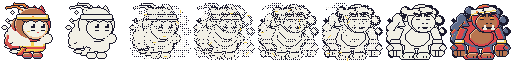
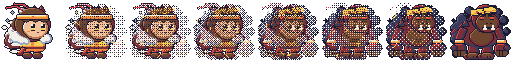
Great Ape morph: full-colour crossfade instead of white silhouettes
Claude-Session: https://claude.ai/code/session_01J8LgTLVYzThXjNSRVhWqep

diff --git a/tools/sprites/generate.py b/tools/sprites/generate.py
@@ -924,17 +924,15 @@ def poof_frame(size: int, k: int, color) -> Image.Image:
 
 
 def morph_frames(a: Image.Image, b: Image.Image) -> list[Image.Image]:
-    """Transformation from frame `a` into `b`: a brightens to a white silhouette, the silhouette
-    dissolves into b's (ordered dither) with gold sparks crackling inside, then b fades in from white.
-    Drawn growing from a's in-game scale to b's (SpecialFx)."""
-    wa, wb = recolor(a, lambda _c: WHITE), recolor(b, lambda _c: WHITE)
+    """Transformation from frame `a` into `b`, in full colour (no white flash): a dissolves into b (ordered
+    dither over 6 frames) with gold sparks crackling. Drawn growing from a's in-game scale to b's (SpecialFx)."""
     rng = random.Random(7)
-    out = [recolor(a, LIGHTER.__getitem__), wa]
-    for p in (0.2, 0.4, 0.6, 0.8):
-        c = Canvas()  # each pixel from one silhouette or the other: both outlines stay readable
+    out = [a]
+    for p in (1 / 7, 2 / 7, 3 / 7, 4 / 7, 5 / 7, 6 / 7):
+        c = Canvas()  # each pixel from one sprite or the other: both stay readable
         for y in range(SIZE):
             for x in range(SIZE):
-                c.px[x, y] = (wb if BAYER[y % 4][x % 4] / 16 < p else wa).getpixel((x, y))
+                c.px[x, y] = (b if BAYER[y % 4][x % 4] / 16 < p else a).getpixel((x, y))
         inside = [(x, y) for y in range(SIZE) for x in range(SIZE) if c.px[x, y][3]]
         for x, y in rng.sample(inside, 6):  # sparks: short gold crackles
             dx, dy = rng.choice(((1, 0), (0, 1), (1, 1), (1, -1)))
@@ -942,7 +940,7 @@ def morph_frames(a: Image.Image, b: Image.Image) -> list[Image.Image]:
                 if 1 < x + dx * j < SIZE - 2 and 1 < y + dy * j < SIZE - 2:
                     c.dot(x + dx * j, y + dy * j, YELLOW)
         out.append(c.img)
-    return out + [wb, recolor(b, LIGHTER.__getitem__)]
+    return out + [b]
 
 
 BAYER = ((0, 8, 2, 10), (12, 4, 14, 6), (3, 11, 1, 9), (15, 7, 13, 5))

diff --git a/.claude/skills/transform-morph/SKILL.md b/.claude/skills/transform-morph/SKILL.md
@@ -19,12 +19,12 @@ backwards when it ends. Purely cosmetic: stats switch instantly.
    "<id>_<form>_morph": lambda: strip(morph_frames(frames(<id>, AURAS.get("<id>"))[0],
                                                    frames(<id>_<form>, AURAS.get("<id>_<form>"))[0])),
    ```
-   `morph_frames(a, b)` gives 8 frames: a brightened → a white silhouette → 4 ordered-dither crossfades
-   of the two white line-art silhouettes with gold spark crackles → b white → b brightened. Tweak the
+   `morph_frames(a, b)` gives 8 frames: a → 6 full-colour ordered-dither crossfades with gold spark
+   crackles → b. No white silhouettes (the user didn't like them). Tweak the
    spark colour / count there if the form has a different theme (keep it generic; pass a parameter
    rather than forking the function).
 3. Run the generator; Read a x4 NEAREST preview. Each middle frame should still show both outlines
-   (if it turns into a shapeless blob, the masks are being unioned instead of picked per pixel).
+   (if it turns into a shapeless blob, the sprites are being unioned instead of picked per pixel).
 4. In `data/skills/<skill>.tres` add an `ext_resource` for `res://assets/fx/<id>_<form>_morph.png` and
    `form_morph = ExtResource("...")`.
 5. `godot --headless --import`, run GUT.

diff --git a/CLAUDE.md b/CLAUDE.md
@@ -244,7 +244,7 @@ A mobile real-time PvP arena shooter. Combat feel is inspired by top-down roguel
   with seq + `VOLLEY_SEQ_OFFSET`). Dual Wield is still pickable too.
   Flourishes (`SpecialFx`, detected from synced state changes so remote players show them too): clones appear in
   their own cloud poof in a ring around the player (`CLONE_START_DISTANCE`), fade in, and vanish in poofs; the Great Ape transformation is struck by lightning, morphs
-  (`SkillData.form_morph`: 8-frame strip, Wukong -> white silhouette -> dithered crossfade with gold sparks -> ape,
+  (`SkillData.form_morph`: 8-frame strip, Wukong -> full-colour dithered crossfade with gold sparks -> ape,
   drawn growing to form_scale while the real sprite is hidden) and bursts out of a cloud; it ends in a dark puff,
   morphing back. These and the Smoke Bomb cloud are pixel-art strips generated into `assets/fx/`
   (generate.py `FX`: poof / poof_small / poof_dark 10 frames (swell, then burst into wisps), wukong_ape_morph, bolt 3 variants, smoke 4-frame loop; `Canvas(size)`
